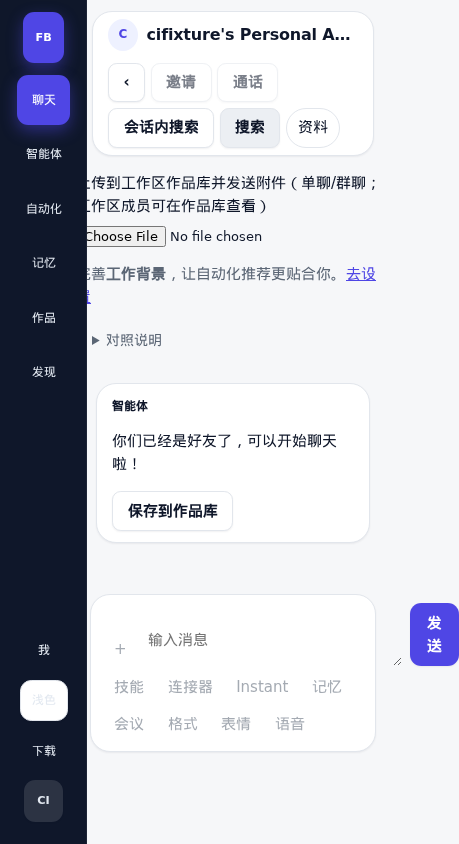
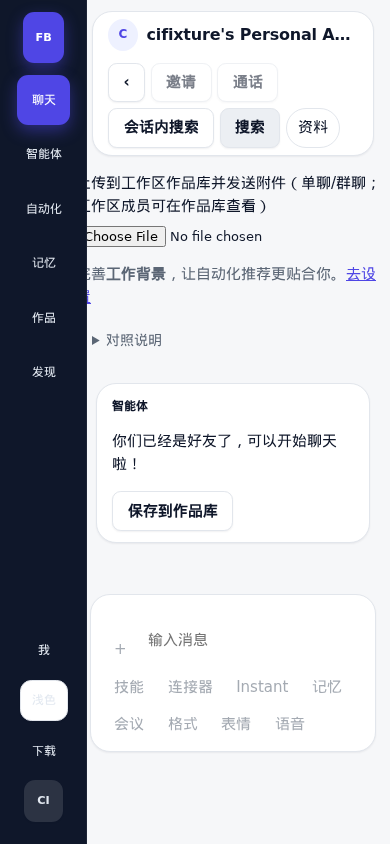
docs(evidence): re-shoot the 390x844 #228 pair as viewport captures
The six 459-px-wide files came from fullPage captures, Chromium sizes those to
the page's real scrollWidth. The overflow itself is real (composer at 390) and
pre-exists on the base, so the fix is the frame, not the pixels: re-shot at
390x844 and documented the measured scrollWidth per state.

diff --git a/evidence/228/README.md b/evidence/228/README.md
@@ -9,14 +9,32 @@
 
 The en set was taken after switching the interface language to `en` through
 `POST /v1/settings`; the rendered strings are identical to zh-CN on this tip
-(no i18n layer for `/chat`), so it documents the language axis rather than
-different text.
+(no i18n layer for `/chat`, `documentElement.lang` stays `zh-CN`), so it
+documents the language axis rather than different text — the en and zh-CN files
+of the same state are byte-identical.
 
 The defect is the 390x844 pair. On `before`, tapping 搜索 with a conversation
-open leaves the screen unchanged: `s227-closed` and `s227-panel` are the same
-picture (the panel is inside the `display:none` session pane). On `after`, the
-same click paints the search panel over the session list, and the page's
-scroll width drops from the overflowing 459px to 390px.
+open leaves the screen unchanged: the panel is inside the `display:none` session
+pane, and the two pictures differ only in a 60×40 caret region. On `after`, the
+same click paints the search panel over the session list.
+
+Measured `documentElement.scrollWidth` at 390×844, same fixture, same click path:
+
+| state | before | after |
+|---|---|---|
+| conversation open, search closed | 459 | 459 |
+| after tapping 搜索 | 459 | 390 |
+
+The 459 is real horizontal overflow, not a viewport parameter: with a
+conversation open the composer overflows the 390 viewport — `textarea#chat-body`
+has its right edge at 402 and the send `button` at 459. It is there on the base
+too, so it is not introduced here; this PR only removes it from the search-open
+state by painting the panel over the list instead of inside the hidden pane.
+
+The six 390×844 images that used to be 459 px wide were `fullPage: true`
+captures, which Chromium sizes to the real `scrollWidth`; they are re-shot as
+viewport captures (390×844) so every narrow image has the same frame. The
+overflow number above is the measurement, not a cropped image.
 
 Captured with plain Playwright/Chromium (headless) against a loopback
 `scripts/ci_ui_screenshots.py --serve` fixture, 2026-11-19.
